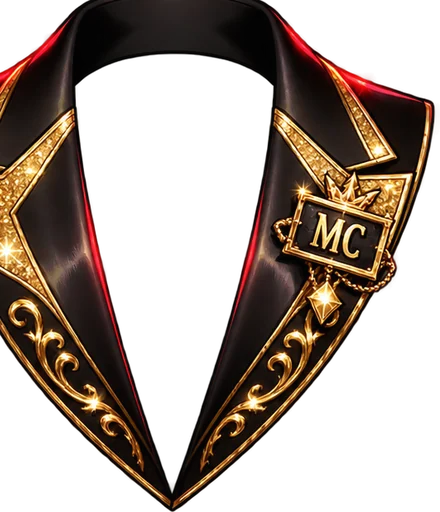
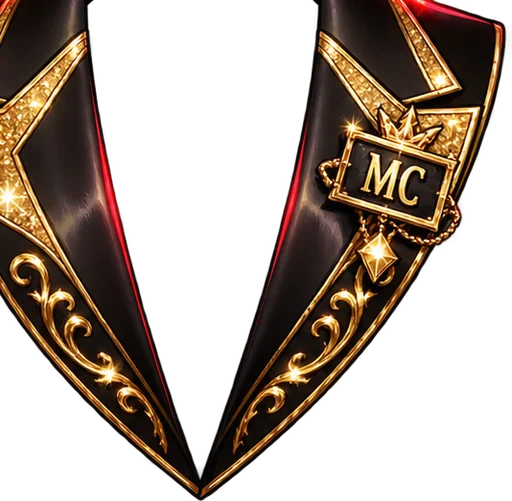
Lens fixes: Void Boss eyes, MC headset and collar; v75

diff --git a/feed-next/feed.js b/feed-next/feed.js
@@ -34,7 +34,7 @@
      screen and is one tap away when somebody needs it. */
   /* The big gold tag next to Mike's own name in the top bar. His check
      that a refresh took: bump it by one with every update we ship. */
-  const DEV_VER = 'v74';   // +1 EVERY update Mike pushes (his refresh check). v53 = 27 Sep evening: smart tags, online dots, tagline, photo grid, soft wall.
+  const DEV_VER = 'v75';   // +1 EVERY update Mike pushes (his refresh check). v53 = 27 Sep evening: smart tags, online dots, tagline, photo grid, soft wall.
   const RELEASE = 'v2.5';   // v2.5: works like Instagram -- double-tap heat, @names link, Heat from, comment preview, follower lists, pull to refresh.  // v2.4: Join free + the join box for guests.  // v2.3: profile tabs say what they are.  // v2.2: Start Here once, no picture no feed spot
   /* EVERY ADDRESS THIS FILE WRITES IS ROOT-ABSOLUTE, and that is a rule
      rather than a style. It used to write them relative -- ../?page=... and
@@ -54,7 +54,7 @@
 
      If this app is ever served from a subdirectory instead of the domain
      root, this is the line that has to change. */
-  const BUILD = 'v124';   // v124: Loop camera starts at its widest zoom where the phone allows.  // v123: Loop camera less zoomed -- whole camera sensor, preview shows the real 9:16 frame.  // v122: the real lens art -- 31 pieces for the 7 characters.  // v121: face lenses in the Loop camera -- 7 characters (voice + props that follow your face); stickers stand in until the art lands.  // v120: voice changer in the Loop camera -- Chipmunk, Deep, Robot, Echo, Announcer, Alien.  // v119: Loops pop-up shows every time for testers until launch.  // v118: our own Loop camera -- stops by itself at 15 sec.  // v117: Infinite Loops pop-up gets its pictures.  // v116: Infinite Loops row at the top of the feed (5+), Loops tab on profiles, dark welcome pop-up, ADD says Infinite Loops.  // v115: Loops play like Reels -- tap pauses, speaker button keeps sound on for every Loop until turned off.  // v114: Loop maker -- Retro VHS + Comic styles (6 in all); drag, pinch and turn the text.  // v113: ∞ Loop opens straight into the maker; record a video (or pick videos + photos), then text + stickers over it, with its sound.  // v112: LOOP MAKER -- photos + style + text + stickers made into a video on the phone.  // v111: REPORTS in the menu for moderators -- take a reported post down (hidden, not deleted) or clear it.  // v110: INFINITE LOOPS -- 15-second videos: a Loops row in the feed, full-screen swipe player, Make a Loop on ADD, pinned Loops on profiles.  // v109: wall leads with Log in / Open in the app, never 'sign up'; Facebook/Instagram browsers get a way out.  //   // v108: # picker; #Charizard shows photos and Charizard cards together.  //   // v107: shared post pages redesigned; Join free & follow from them.  //   // v106: smart tags -- Pokemon, set, rarity, grade, edition under every card; #tags tappable; tag search.  //   // v105: online dots -- green dot when active, "Active 12m ago" on profiles, switch to hide it.  //   // v104: new tagline -- Track your Pokémon cards & share your pulls.  //   // v103: Photos tab is a 3-across grid like Instagram; tap opens the post over the profile.  //   // v102: photo posts survive a missing column (is_intro blanked every photo).  //   // v101: soft wall -- guests see 9 posts on a profile, then "Follow @x to see the rest".  //   // v100: editions -- 1st Edition / Shadowless / Unlimited on the card back, Edit and sold search.  //   // v99: tag people in a card's story too.  //   // v98: type @ in a comment or caption to pick who to tag.  //   // v97: BRING YOUR COLLECTION IN on your cards tab and in the checklist.  // v96b: v96b: (i) how-tos for Collectr and Dex on Edit profile.  // v96: Collectr + Dex buttons on profiles.  // v95b: v95b: Say hi only for members under 30 days with no photo posts; everyone else 4 steps.  // v95: v95: profile score is 5 easy steps ending in SAY HI (a hello post made for you); NEW MEMBER tag + Say welcome.  // v94: PROFILE SCORE -- % complete on the feed and your profile, each step opens its screen.  // v93: GET STARTED checklist for new members (photo, first card or post).  // v92: SUGGESTED FOR YOU after the 5th post -- switches itself on at 50 members.  // v91: NEW THIS WEEK row above the videos.  // v90: fresh first -- people who posted in the last day get the first seats.  // v89: photo posts can have up to 10 pictures (swipe, dots, 1 / N).  // v88: notifications A+ (white, holo strip, brand colors, Follow back); posts say what happened; reward posts open from links.  // v87: INVITE in the rail (replaces ALERTS; the top bell has them), invite screen, once after sign up.  // v86: the bell opens a Facebook-style notifications dropdown; rows go to the exact comment.  // v85: SHARE offers story size AND post size.  // v84: invite friends -- your profile link remembers who sent a newcomer.  // v83: SHARE -> share to your story (picture with QR) or share link.  // v82: streaks on profiles.  // v81: HOT THIS WEEK strip at the top of the feed.  // v80: notifications nudge after you comment, post, or open with alerts waiting.  // v79: social pack 1 -- mentions notify, report/block, view counts, edit caption.  // v78: ADD speed dial -- Scan card / Make a post.  // v77: Goals as a feed; Goals tab on other people's profiles.  // v76: the rail -- ME, GOALS, NEW POSTS (count since last open), ALERTS (unread).  // v75: My Photos keeps walking until it has a screenful of pictures.  // v74: no add-a-photo tile on card posts; your own pictures are photo posts.  // v73: Rewards tab drops the My.  // v72: double-tap shows a real filled flame in the middle of the picture.  // v71: My Photos etc. on one line.  // v70: profile tabs in order Photos / Cards / Wants / Rewards; others' pages hide empty tabs and open on the first with something in it.  // v69: tabs say My Cards / My ∞ Rewards / My Wants / My Photos on your own page; menu says MY PROFILE.  // v68: Instagram batch; short times under names; Photos tab is photos only.  // v67: join box is white; social first, then scanner / prices / eBay comps.  // v66: guests get JOIN FREE, a once-per-phone join box, and the box again on HEAT / FOLLOW / wish list / photos.  // v65: profile tabs are words (Cards, Rewards, Wants, Posts), not icons.  // v64: Start Here card shows once per phone; a post with no picture stays out of the feed
+  const BUILD = 'v125';   // v125: lens fixes -- Void Boss eyes up, MC headset by the ear, MC collar lower without the back band.  // v124: Loop camera starts at its widest zoom where the phone allows.  // v123: Loop camera less zoomed -- whole camera sensor, preview shows the real 9:16 frame.  // v122: the real lens art -- 31 pieces for the 7 characters.  // v121: face lenses in the Loop camera -- 7 characters (voice + props that follow your face); stickers stand in until the art lands.  // v120: voice changer in the Loop camera -- Chipmunk, Deep, Robot, Echo, Announcer, Alien.  // v119: Loops pop-up shows every time for testers until launch.  // v118: our own Loop camera -- stops by itself at 15 sec.  // v117: Infinite Loops pop-up gets its pictures.  // v116: Infinite Loops row at the top of the feed (5+), Loops tab on profiles, dark welcome pop-up, ADD says Infinite Loops.  // v115: Loops play like Reels -- tap pauses, speaker button keeps sound on for every Loop until turned off.  // v114: Loop maker -- Retro VHS + Comic styles (6 in all); drag, pinch and turn the text.  // v113: ∞ Loop opens straight into the maker; record a video (or pick videos + photos), then text + stickers over it, with its sound.  // v112: LOOP MAKER -- photos + style + text + stickers made into a video on the phone.  // v111: REPORTS in the menu for moderators -- take a reported post down (hidden, not deleted) or clear it.  // v110: INFINITE LOOPS -- 15-second videos: a Loops row in the feed, full-screen swipe player, Make a Loop on ADD, pinned Loops on profiles.  // v109: wall leads with Log in / Open in the app, never 'sign up'; Facebook/Instagram browsers get a way out.  //   // v108: # picker; #Charizard shows photos and Charizard cards together.  //   // v107: shared post pages redesigned; Join free & follow from them.  //   // v106: smart tags -- Pokemon, set, rarity, grade, edition under every card; #tags tappable; tag search.  //   // v105: online dots -- green dot when active, "Active 12m ago" on profiles, switch to hide it.  //   // v104: new tagline -- Track your Pokémon cards & share your pulls.  //   // v103: Photos tab is a 3-across grid like Instagram; tap opens the post over the profile.  //   // v102: photo posts survive a missing column (is_intro blanked every photo).  //   // v101: soft wall -- guests see 9 posts on a profile, then "Follow @x to see the rest".  //   // v100: editions -- 1st Edition / Shadowless / Unlimited on the card back, Edit and sold search.  //   // v99: tag people in a card's story too.  //   // v98: type @ in a comment or caption to pick who to tag.  //   // v97: BRING YOUR COLLECTION IN on your cards tab and in the checklist.  // v96b: v96b: (i) how-tos for Collectr and Dex on Edit profile.  // v96: Collectr + Dex buttons on profiles.  // v95b: v95b: Say hi only for members under 30 days with no photo posts; everyone else 4 steps.  // v95: v95: profile score is 5 easy steps ending in SAY HI (a hello post made for you); NEW MEMBER tag + Say welcome.  // v94: PROFILE SCORE -- % complete on the feed and your profile, each step opens its screen.  // v93: GET STARTED checklist for new members (photo, first card or post).  // v92: SUGGESTED FOR YOU after the 5th post -- switches itself on at 50 members.  // v91: NEW THIS WEEK row above the videos.  // v90: fresh first -- people who posted in the last day get the first seats.  // v89: photo posts can have up to 10 pictures (swipe, dots, 1 / N).  // v88: notifications A+ (white, holo strip, brand colors, Follow back); posts say what happened; reward posts open from links.  // v87: INVITE in the rail (replaces ALERTS; the top bell has them), invite screen, once after sign up.  // v86: the bell opens a Facebook-style notifications dropdown; rows go to the exact comment.  // v85: SHARE offers story size AND post size.  // v84: invite friends -- your profile link remembers who sent a newcomer.  // v83: SHARE -> share to your story (picture with QR) or share link.  // v82: streaks on profiles.  // v81: HOT THIS WEEK strip at the top of the feed.  // v80: notifications nudge after you comment, post, or open with alerts waiting.  // v79: social pack 1 -- mentions notify, report/block, view counts, edit caption.  // v78: ADD speed dial -- Scan card / Make a post.  // v77: Goals as a feed; Goals tab on other people's profiles.  // v76: the rail -- ME, GOALS, NEW POSTS (count since last open), ALERTS (unread).  // v75: My Photos keeps walking until it has a screenful of pictures.  // v74: no add-a-photo tile on card posts; your own pictures are photo posts.  // v73: Rewards tab drops the My.  // v72: double-tap shows a real filled flame in the middle of the picture.  // v71: My Photos etc. on one line.  // v70: profile tabs in order Photos / Cards / Wants / Rewards; others' pages hide empty tabs and open on the first with something in it.  // v69: tabs say My Cards / My ∞ Rewards / My Wants / My Photos on your own page; menu says MY PROFILE.  // v68: Instagram batch; short times under names; Photos tab is photos only.  // v67: join box is white; social first, then scanner / prices / eBay comps.  // v66: guests get JOIN FREE, a once-per-phone join box, and the box again on HEAT / FOLLOW / wish list / photos.  // v65: profile tabs are words (Cards, Rewards, Wants, Posts), not icons.  // v64: Start Here card shows once per phone; a post with no picture stays out of the feed
 
   const PAGE = 8;                     // posts per fetch
   /* ONE NAME, IN ONE PLACE. It is the shop's display name, the key its posts

diff --git a/service-worker.js b/service-worker.js
@@ -5,7 +5,7 @@
    already has. Bump it whenever a stylesheet and a script have to land
    together -- they are separate downloads, and a phone holding yesterday's
    feed.css beside today's feed.js shows something neither of them describes. */
-const CACHE = 'infinite-pulls-v242';   // v242: widest zoom.   // v241: camera zoom fix.   // v240: lens art.   // v239: face lenses.   // v238: Loop voice changer.   // v237: pop-up repeats for testers.   // v236: Loop camera.   // v235: pop-up pictures.   // v234: Loops row up top, Loops tab, welcome pop-up.   // v233: Loop player sound button + tap to pause.   // v232: 6 Loop styles, movable text.   // v231: record video in the Loop maker.   // v230: Loop maker.   // v229: Reports / takedown screen.   // v228: Loops shrink to 720p before upload.   // v227: profile tabs survive a hiccup.   // v226: Loops play with sound.   // v225: Infinite Loops (15-second videos).   // v224: wall wording, open-in-app.   // v223: # picker, one page per tag.   // v222: join from shared post pages.   // v221: personal version tag v53.   // v220: smart tags.   // v219: online dots.   // v218: new tagline.   // v217: homepage readable by Google.   // v216: Photos tab is a grid.   // v215: photo posts survive a missing column.   // v214: soft wall on profiles for guests.   // v213: editions (1st Edition / Shadowless / Unlimited).   // v212: tag people in card stories.   // v211: @ picker in comments and captions.   // v210: card story in My Collection's Edit and on the card page.   // v209: sealed from imports goes to the Sealed tab.   // v208: Japanese set names for imports.   // v185: ADD speed dial -- Scan card / Make a post (phone picker first).   // v184: POST PIC; type the card number right in the camera.   // v183: camera -- POST MY PULL / SCAN A CARD / UPLOAD big across the top, one-time tip; + says POST.   // v182: Goals as a feed; Goals tab on profiles; old menu GOALS lands there.   // v181: the rail -- ME, GOALS, NEW POSTS, ALERTS.   // v180: My Photos shows all of your pictures.   // v179: Instagram camera -- SCAN / PHOTO / UPLOAD under one big shutter, flash, white blink, Share.   // v178: no add-a-photo tile on card posts.   // v177: Rewards tab drops the My.   // v176: a real flame on double-tap.   // v175: My Photos etc. on one line.   // v174: profile tabs Photos first, empty tabs hidden on others' pages.   // v173: My Cards / My ∞ Rewards / My Wants / My Photos; MY PROFILE in the menu.   // v172: works like Instagram -- double-tap heat, linked @names, Heat from, comment preview, follower lists, pull to refresh.   // v171: white join box with the collector tools.   // v170: JOIN FREE + the join box for guests.   // v169: profile tabs are words, not icons.   // v168: Start Here card shows once; no picture, no place in the feed.   // v167: My Account retired -- switches on My Collection, EDIT PROFILE in the menu; Show my value works again.   // v166: phone numbers (sign-up, My Account, Edit profile, one-time ask).   // v165: old pages' SHOP/COLLECTION/MENU open the feed's sheets in place; bell on the top bar, Install in the menu; wish list loads; CARDS count fixed.   // v164: bottom bar taps work again (data-page on <body> was swallowing every click); your face on MENU.   // v163: your face and @name under the wordmark, feed and old pages alike.   // v162: the old pages wear the feed's top bar and bottom menu; My Collection in the new look.   // v161: the grail card is retired.   // v160: CLAIM NOW is for the name badge only; reward cards arrive on their own again.   // v159: rewards wait to be claimed -- CLAIM NOW pill on your profile.   // v158: Infinite Feed title, full-circle app icon, no tabs on profiles.   // v157: a card in the profile grid opens their post over the profile.   // v156: card tiles open the card's page; rewards tab shows only earned cards + what was done.   // v155: $ on card tiles, EARNED + how-to-earn on reward tiles.   // v154: profile tabs -- cards, ∞ rewards, wish list, posts.   // v153: Instagram-style profile, Edit profile, real following with EVERYONE / FOLLOWING.   // v152: scan-to-follow QR codes.   // v151: @ search finds people, with card counts.   // v150: @handles in the feed.
+const CACHE = 'infinite-pulls-v243';   // v243: lens fixes.   // v242: widest zoom.   // v241: camera zoom fix.   // v240: lens art.   // v239: face lenses.   // v238: Loop voice changer.   // v237: pop-up repeats for testers.   // v236: Loop camera.   // v235: pop-up pictures.   // v234: Loops row up top, Loops tab, welcome pop-up.   // v233: Loop player sound button + tap to pause.   // v232: 6 Loop styles, movable text.   // v231: record video in the Loop maker.   // v230: Loop maker.   // v229: Reports / takedown screen.   // v228: Loops shrink to 720p before upload.   // v227: profile tabs survive a hiccup.   // v226: Loops play with sound.   // v225: Infinite Loops (15-second videos).   // v224: wall wording, open-in-app.   // v223: # picker, one page per tag.   // v222: join from shared post pages.   // v221: personal version tag v53.   // v220: smart tags.   // v219: online dots.   // v218: new tagline.   // v217: homepage readable by Google.   // v216: Photos tab is a grid.   // v215: photo posts survive a missing column.   // v214: soft wall on profiles for guests.   // v213: editions (1st Edition / Shadowless / Unlimited).   // v212: tag people in card stories.   // v211: @ picker in comments and captions.   // v210: card story in My Collection's Edit and on the card page.   // v209: sealed from imports goes to the Sealed tab.   // v208: Japanese set names for imports.   // v185: ADD speed dial -- Scan card / Make a post (phone picker first).   // v184: POST PIC; type the card number right in the camera.   // v183: camera -- POST MY PULL / SCAN A CARD / UPLOAD big across the top, one-time tip; + says POST.   // v182: Goals as a feed; Goals tab on profiles; old menu GOALS lands there.   // v181: the rail -- ME, GOALS, NEW POSTS, ALERTS.   // v180: My Photos shows all of your pictures.   // v179: Instagram camera -- SCAN / PHOTO / UPLOAD under one big shutter, flash, white blink, Share.   // v178: no add-a-photo tile on card posts.   // v177: Rewards tab drops the My.   // v176: a real flame on double-tap.   // v175: My Photos etc. on one line.   // v174: profile tabs Photos first, empty tabs hidden on others' pages.   // v173: My Cards / My ∞ Rewards / My Wants / My Photos; MY PROFILE in the menu.   // v172: works like Instagram -- double-tap heat, linked @names, Heat from, comment preview, follower lists, pull to refresh.   // v171: white join box with the collector tools.   // v170: JOIN FREE + the join box for guests.   // v169: profile tabs are words, not icons.   // v168: Start Here card shows once; no picture, no place in the feed.   // v167: My Account retired -- switches on My Collection, EDIT PROFILE in the menu; Show my value works again.   // v166: phone numbers (sign-up, My Account, Edit profile, one-time ask).   // v165: old pages' SHOP/COLLECTION/MENU open the feed's sheets in place; bell on the top bar, Install in the menu; wish list loads; CARDS count fixed.   // v164: bottom bar taps work again (data-page on <body> was swallowing every click); your face on MENU.   // v163: your face and @name under the wordmark, feed and old pages alike.   // v162: the old pages wear the feed's top bar and bottom menu; My Collection in the new look.   // v161: the grail card is retired.   // v160: CLAIM NOW is for the name badge only; reward cards arrive on their own again.   // v159: rewards wait to be claimed -- CLAIM NOW pill on your profile.   // v158: Infinite Feed title, full-circle app icon, no tabs on profiles.   // v157: a card in the profile grid opens their post over the profile.   // v156: card tiles open the card's page; rewards tab shows only earned cards + what was done.   // v155: $ on card tiles, EARNED + how-to-earn on reward tiles.   // v154: profile tabs -- cards, ∞ rewards, wish list, posts.   // v153: Instagram-style profile, Edit profile, real following with EVERYONE / FOLLOWING.   // v152: scan-to-follow QR codes.   // v151: @ search finds people, with card counts.   // v150: @handles in the feed.
 const CORE = [
   /* WHAT THIS LIST IS FOR, WHICH IS NOT WHAT IT LOOKS LIKE.
      The fetch handler below is network-first and caches every GET it makes.

diff --git a/components/loop-maker.js b/components/loop-maker.js
@@ -1015,7 +1015,7 @@ registerProcessor('ip-pitch-shift', PitchShift);`;
     ],
     voidboss: [
       { f: 'head-voidboss-crown', at: 'head', w: 1.15, sink: -0.12, fx: 'hover' },
-      { f: 'eyes-voidboss-glow', at: 'eyes', w: 1.05, fx: 'pulse' },
+      { f: 'eyes-voidboss-glow', at: 'eyes', w: 1.05, dy: 0.08, fx: 'pulse' },
       { f: 'neck-voidboss-collar', at: 'neck', w: 1.35, sink: 0.35 },
       { f: 'float-voidboss-orb', at: 'float', w: 0.22, n: 2, fx: 'spin' }
     ],
@@ -1033,9 +1033,9 @@ registerProcessor('ip-pitch-shift', PitchShift);`;
     ],
     mc: [
       { f: 'head-mc-hair', at: 'head', w: 1.35, sink: 0.45 },
-      { f: 'mouth-mc-headset', at: 'mouth', w: 0.8, dx: -0.28, dy: 0.1 },
-      { f: 'neck-mc-collar', at: 'neck', w: 1.45, sink: 0.12 },
-      { f: 'neck-mc-bowtie', at: 'neck', w: 0.45, sink: -0.12, fx: 'hover' }
+      { f: 'mouth-mc-headset', at: 'mouth', w: 0.8, dx: 0.32, dy: 0.22 },
+      { f: 'neck-mc-collar', at: 'neck', w: 1.55, sink: -0.15, dy: -0.12 },
+      { f: 'neck-mc-bowtie', at: 'neck', w: 0.42, sink: 0.5, dy: -0.38, fx: 'hover' }
     ],
     invader: [
       { f: 'face-invader-paint', at: 'face', w: 1.05, alpha: 0.85 },
